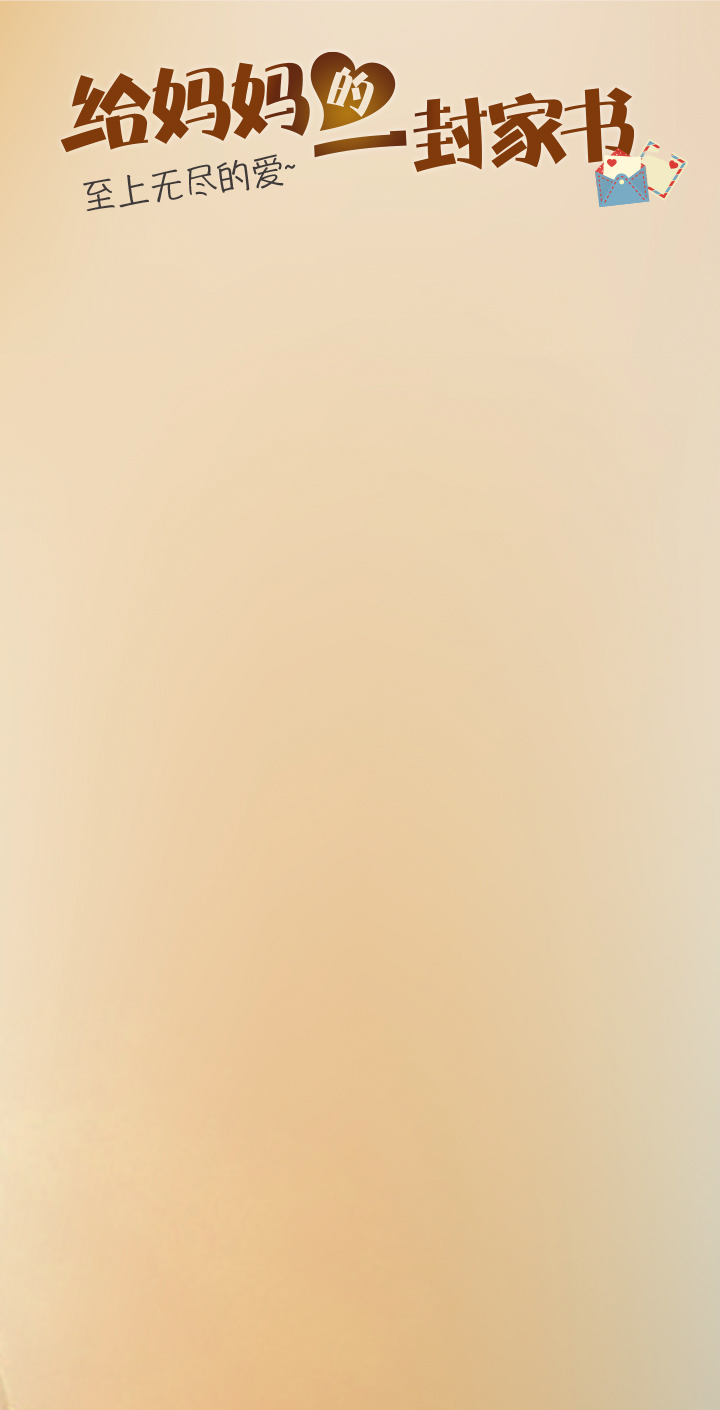
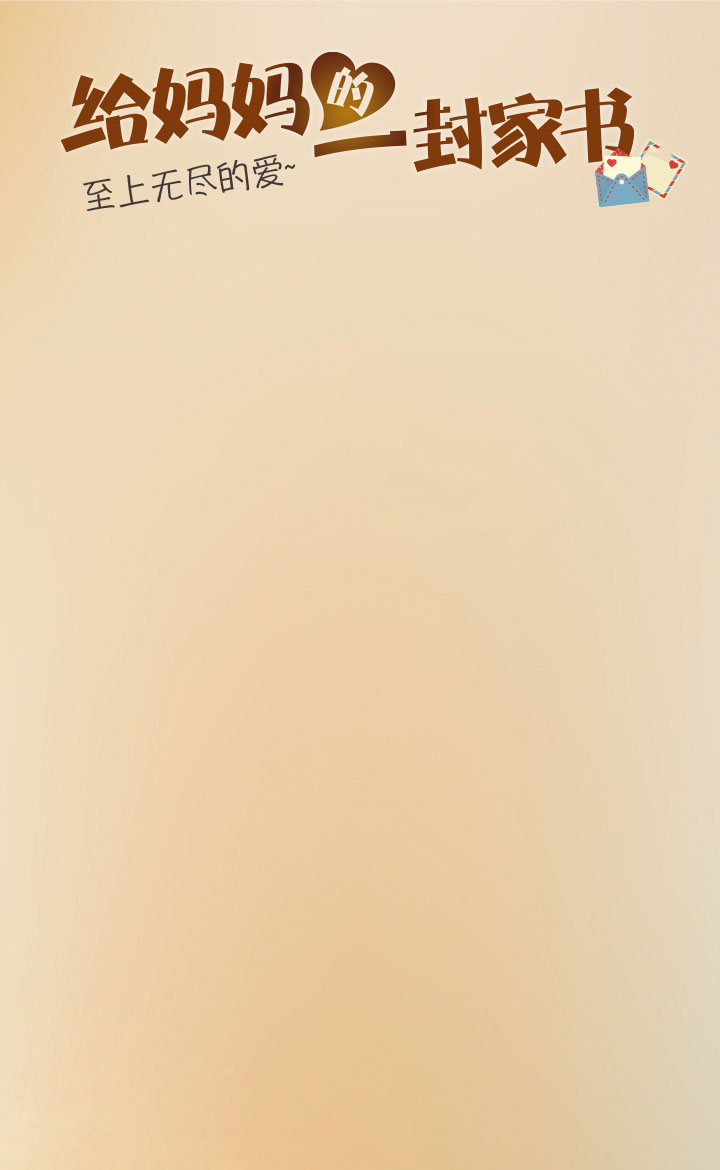
金龙修改一波，然后修改了小于10岁岁数不居中

Changed region(s): [[0.0917, 0.0308, 0.9472, 0.1846], [0.0, 0.9846, 0.0306, 1.0]]

diff --git a/index.php b/index.php
@@ -137,7 +137,8 @@ imgloading.onload=function(){
         <img id="huazi" class="posit9 hauzi_img" src="images/huazi_1.png">
     </div>
     <div id="p6" class="page posit9 dpl">
-        <img class="bg" src="images/p6_bg.jpg">
+        <img id="p6_bg0" class="bg" style="position:absolute; left: 0; top: 0; z-index:0; " src="images/p6_bg.jpg">
+        <img id="p6_bg" class="bg" style="position:absolute; left: 0; top: 0;z-index:2; " src="images/p6_bg.jpg">
         <img id="p6_1" class="posit3" src="images/p6_1.png">
         <img id="p6_bt" class="posit3" src="images/p6_bt.png">
         <img id="p6_bt2" class="posit3" src="images/p6_bt2.png">
@@ -167,14 +168,15 @@ imgloading.onload=function(){
         <img id="dial_close" class="posit3" src="images/dial_close.png">
     </div>
     <div id="p8" class="page posit9 dpl">
-        <img class="bg" src="images/p6_bg.jpg">
+        <img id="p8_bg0" class="bg" style="position:absolute; left: 0; top: 0; z-index:0; " src="images/p6_bg.jpg">
+        <img id="p8_bg" class="bg" style="position:absolute; left: 0; top: 0;z-index:2; " src="images/p6_bg.jpg">
         <img id="p8_bt_1" class="posit3 p8_bt" src="images/p8_bt_1.png">
         <img id="p8_bt_2" class="posit3 p8_bt dpl" src="images/p8_bt_2.png" onclick="shareToutiao()">
-        <img id="p8_1" class="posit2 p8_img" src="images/p8_1.png">
-        <img id="p8_2" class="posit2 p8_img" src="images/p8_2.png">
-        <img id="p8_3" class="posit2 p8_img" src="images/p8_3.png">
-        <img id="p8_4" class="posit2 p8_img" src="images/p8_4.png">
-        <img id="p8_5" class="posit2 p8_img" src="images/p8_5.png">
+        <img id="p8_1" class="posit3 p8_img" src="images/p8_1.png">
+        <img id="p8_2" class="posit3 p8_img" src="images/p8_2.png">
+        <img id="p8_3" class="posit3 p8_img" src="images/p8_3.png">
+        <img id="p8_4" class="posit3 p8_img" src="images/p8_4.png">
+        <img id="p8_5" class="posit3 p8_img" src="images/p8_5.png">
     </div>
 </div>
 
@@ -185,7 +187,7 @@ var superman2_src;
 var dx,dy,swidth,sheight,sleft,stop;
 var p3_set;
 
-ToutiaoJSBridge.call('config', {'client_id': '7303d4f2cc942624'}, function(e){
+ToutiaoJSBridge.call('config', {'client_id': '<?php echo $transKEY?>'}, function(e){
     $("#p8_bt_2").show();
 })
 function shareToutiao() {
@@ -422,8 +424,8 @@ $(document).ready(function() {
             },
             success:function (r) {
                 console.log(r);
-                $("#p6 .bg").attr("src","made/"+r.filename);
-                $("#p8 .bg").attr("src","made/"+r.filename);
+                $("#p6_bg").attr("src","made/"+r.filename);
+                $("#p8_bg").attr("src","made/"+r.filename);
                 $('#p6').fadeIn(500);
                 $('.shutup').css({left:10/p+'px',top:160/p+'px'});
                 $('#p5').fadeOut(500);
@@ -530,7 +532,7 @@ $(document).ready(function() {
 
     //返回首页
     $('#p8_bt_1').click(function () {
-        window.location.href=window.location.href;
+        window.location.href=window.location.href+'?timeline='+Math.random();
     });
 
 	//手指滑动切换页面
@@ -765,7 +767,7 @@ function getWidth(){
     $('#age_right_bar').width(82/p).height(78/p).css({left:494/p+'px',top:288/p+'px'});
     $('#huazi').width(265/p).height(166/p).css({left:142/p+'px',top:525/p+'px'});
     //p6
-    $('#p6_1').width(186/p).height(117/p).css({left:509/p+'px',top:875/p+'px'});
+    $('#p6_1').width(373/p).height(35/p).css({left:(x-373/p)/2+'px',top:925/p+'px'});
     $('#p6_bt').width(200/p).height(95/p).css({left:(x-200/p)/2+'px',bottom:106/p+'px'});
     $('#p6_bt2').width(312/p).height(60/p).css({left:(x-312/p)/2+'px',bottom:40/p+'px'});
     //
@@ -787,6 +789,7 @@ function getWidth(){
     $('#p8_3').width(147/p).height(84/p).css({left:360/p+'px',top:710/p+'px'});
     $('#p8_4').width(211/p).height(120/p).css({left:70/p+'px',top:825/p+'px'});
     $('#p8_5').width(103/p).height(59/p).css({left:530/p+'px',top:940/p+'px'});
+    $('#p8_bg,#p6_bg').height(1170/p);
 }
 </script>
 </body>

diff --git a/cutimage.php b/cutimage.php
@@ -67,6 +67,12 @@ if(isset($_POST['filename'])){
         $face1popy=$face1['location']['top']+$face1['location']['height']/2;
         $face1agex=$face1popx+25;
         $face1agey=$face1popy+80;
+        if($face1age<10){
+            $face1agex+=15;
+        }
+        if($face1age>99){
+            $face1agex-=15;
+        }
 
         $face2=$result['face_list'][1];
         $face2age=$face2['age'];
@@ -75,6 +81,12 @@ if(isset($_POST['filename'])){
         $face2popy=$face2['location']['top']+$face2['location']['height']/2;
         $face2agex=$face2popx+25;
         $face2agey=$face2popy+80;
+        if($face2age<10){
+            $face2agex+=15;
+        }
+        if($face2age>99){
+            $face2agex-=15;
+        }
 
         if($face1popx<$face2popx){
             $face2popx=$face2['location']['left']+$face2['location']['width']+40;
@@ -82,6 +94,12 @@ if(isset($_POST['filename'])){
             $face2popfile="images/age_right_bg.png";
             $face2agex=$face2popx+40;
             $face2agey=$face2popy+70;
+            if($face2age<10){
+                $face2agex+=15;
+            }
+            if($face2age>99){
+                $face2agex-=15;
+            }
         }
         if($face1popx>=$face2popx){
             $face1popx=$face1['location']['left']+$face1['location']['width']+40;
@@ -89,6 +107,12 @@ if(isset($_POST['filename'])){
             $face1popfile="images/age_right_bg.png";
             $face1agex=$face1popx+40;
             $face1agey=$face1popy+70;
+            if($face1age<10){
+                $face1agex+=15;
+            }
+            if($face1age>99){
+                $face1agex-=15;
+            }
         }
         $image = imagecreatefromjpeg("cuted/".$savename);
 

diff --git a/config.php b/config.php
@@ -1,9 +1,10 @@
 <?php
 $AIappkey="ZNGsHeK1NnTNmzfAkEzTcZsK";
 $AIsecretkey="to16x7jKOkQCDI0NG9dFcXP4XxjtWm5G";
-$transURL="http://www.primomedia.cn/m/toutiao_mom/index";
-$transICON="http://www.primomedia.cn/m/toutiao_mom/images/icon.jpg";
-$transTITLE="母亲节的一封家书，让爱无距";
+$transURL="http://www.primomedia.cn/m/toutiao_mom/index";//转发目标
+$transICON="http://www.primomedia.cn/m/toutiao_mom/images/icon.jpg";//转发icon
+$transTITLE="母亲节的一封家书，让爱无距";//转发标题
+$transKEY="7303d4f2cc942624";//头条接口key
 $transURL=urlencode($transURL);
 $transICON=urlencode($transICON);
 $transTITLE=urlencode($transTITLE);
